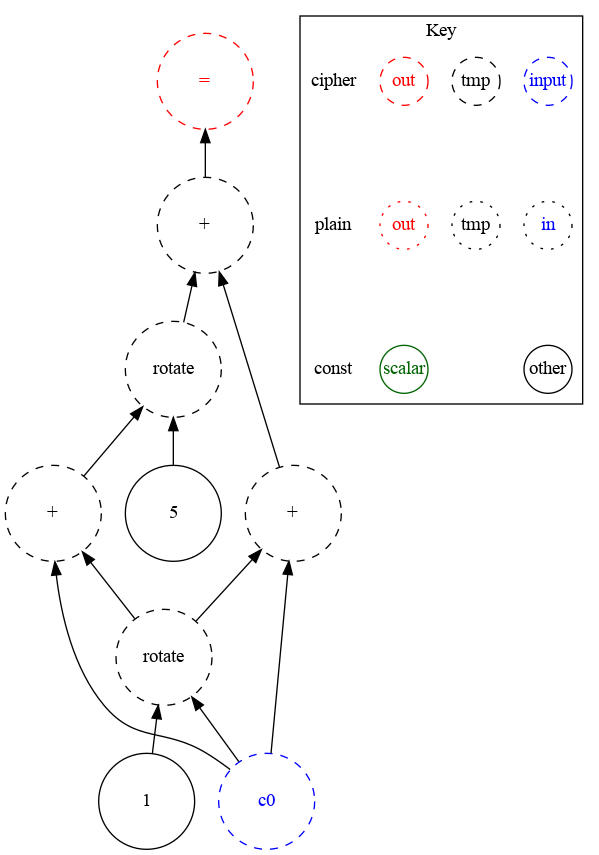
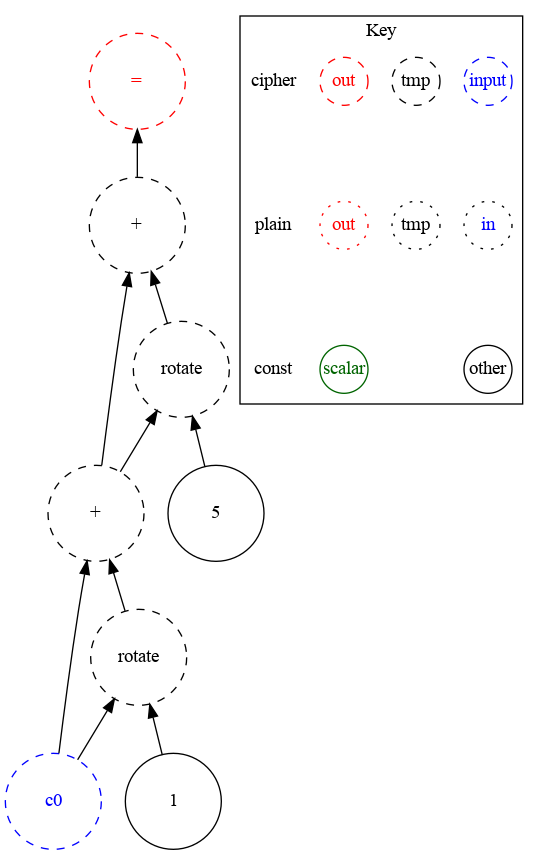
fix cse handle operations commutativity

diff --git a/fheco/src/passes/cse_pass.hpp b/fheco/src/passes/cse_pass.hpp
@@ -33,7 +33,24 @@ struct SEid
     expr_ptr = term_node;
   }
 
-  bool operator==(const SEid &id) const { return (lhs == id.lhs && rhs == id.rhs && opcode == id.opcode); }
+  bool operator==(const SEid &id) const
+  {
+    if (opcode == id.opcode)
+    {
+      // binary operations
+      if (lhs && rhs)
+      {
+        // not commutative
+        if (opcode == ir::OpCode::sub)
+          return lhs == id.lhs && rhs == id.rhs;
+        else
+          return (lhs == id.lhs && rhs == id.rhs) || (lhs == id.rhs && rhs == id.lhs);
+      }
+      else
+        return lhs == id.lhs;
+    }
+    return false;
+  }
 
   ~SEid() {}
 };
@@ -67,8 +84,20 @@ struct SEidHash
     }
     else
     {
-      if (seid.lhs && seid.rhs) // binary operations
-        ss << seid.lhs << ir::str_opcode[seid.opcode] << seid.rhs;
+      // binary operations
+      if (seid.lhs && seid.rhs)
+      {
+        // not commutative
+        if (seid.opcode == ir::OpCode::sub)
+          ss << seid.lhs << ir::str_opcode[seid.opcode] << seid.rhs;
+        else
+        {
+          if (seid.lhs <= seid.rhs)
+            ss << seid.lhs << ir::str_opcode[seid.opcode] << seid.rhs;
+          else
+            ss << seid.rhs << ir::str_opcode[seid.opcode] << seid.lhs;
+        }
+      }
 
       else if (seid.lhs) // unary operations
         ss << ir::str_opcode[seid.opcode] << seid.lhs;

diff --git a/fheco/src/passes/cse_pass.cpp b/fheco/src/passes/cse_pass.cpp
@@ -1,6 +1,7 @@
 #include "cse_pass.hpp"
 #include "ir_utils.hpp"
 #include <sstream>
+#include <stdexcept>
 
 namespace fheco_passes
 {
@@ -258,9 +259,9 @@ void CSE::apply_cse2(bool allow_assign_insertion)
     }
     else
     {
-      SEid expression_id = node;
-      auto it = calculated_expressions_ids.find(expression_id);
-      if (it != calculated_expressions_ids.end())
+      SEid expression_id(node);
+      auto [it, is_inserted] = calculated_expressions_ids.insert({expression_id, node});
+      if (!is_inserted)
       {
         // all parents of node needs to point to processed_node instead of node
         if (parents_labels.size())
@@ -269,7 +270,7 @@ void CSE::apply_cse2(bool allow_assign_insertion)
           {
             auto parent_node = program->find_node_in_dataflow(parent_label);
             if (parent_node == nullptr)
-              continue;
+              throw std::logic_error("parent node not found");
 
             parent_node->replace_operand_with(node, it->second);
           }
@@ -288,8 +289,6 @@ void CSE::apply_cse2(bool allow_assign_insertion)
           }
         }
       }
-      else
-        calculated_expressions_ids[expression_id] = node;
     }
   }
 }

diff --git a/benchmarks/box_blur/box_blur.hpp b/benchmarks/box_blur/box_blur.hpp
@@ -31,10 +31,8 @@ void box_blur(
   evaluator.add(c0, ciphertext14, ciphertext15);
   seal::Ciphertext ciphertext5;
   evaluator.rotate_rows(ciphertext15, 5, galois_keys, ciphertext5);
-  seal::Ciphertext ciphertext4;
-  evaluator.add(ciphertext14, c0, ciphertext4);
   seal::Ciphertext ciphertext6;
-  evaluator.add(ciphertext4, ciphertext5, ciphertext6);
+  evaluator.add(ciphertext15, ciphertext5, ciphertext6);
   seal::Ciphertext output = ciphertext6;
   encrypted_outputs.insert({"output", output});
 }
